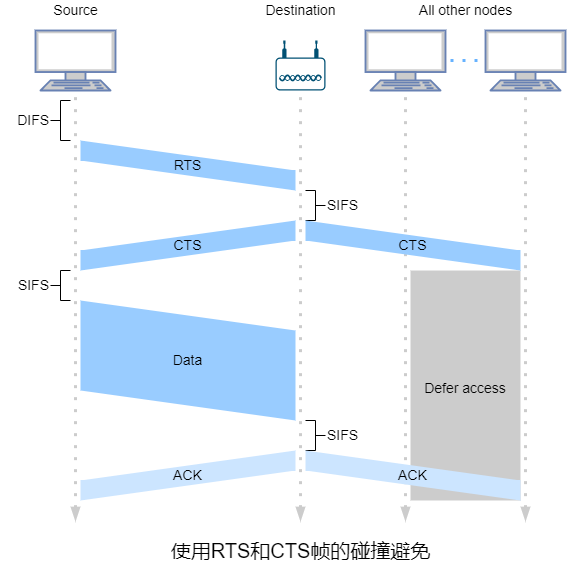
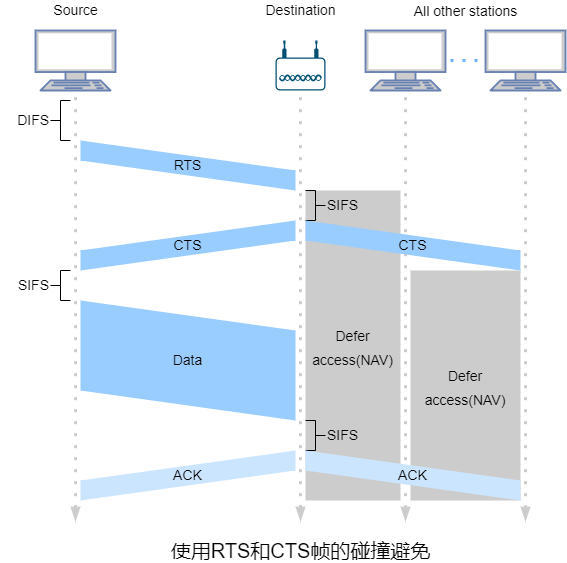
computer networking

Changed region(s): [[0.5397, 0.3321, 0.7196, 0.9059], [0.7496, 0.6643, 0.8995, 0.7247], [0.7196, 0.0, 0.9295, 0.0302]]

diff --git a/computer-networking/computer-networking.md b/computer-networking/computer-networking.md
@@ -1849,7 +1849,7 @@ $$
 
 		MPLS首部位于链路层帧首部和网络层数据报首部之间。MPLS首部包括20位**标签**、3位**实验**、1位**栈底标识**和8位**生存时间**。
 
-		﹡标签用来标识分组所属FEC。
+		﹡标签用于标识分组所属FEC。
 
 		﹡实验常用于**服务分类**。
 
@@ -1963,23 +1963,25 @@ $$
 
 ##### 6.7.2 802.11 MAC协议
 
-		由于多个无线主机或AP自身可能希望通过同一信道传输数据，因此需要[多路访问协议](#6.2 多路访问链路和协议)协调传输。
+		802.11 MAC协议包括**分布式协调功能**、**点协议功能**和**混合协调功能**，其中DCF是PAF和HCF的基础，PCF是可选项，HCF提供QOS的支持。
 
-		当WLAN中的站点(无线主机或AP)发送帧时，由于各种原因，帧可能无法完整地达到目的地。为了处理这种不可忽略的故障，802.211 MAC协议使用了**链路层确认**。当接收端收到通过CRC的帧时，它会等待**短帧间间隔**后响应一个确认帧。若发送端在给定时间内未收到确认，则认为发送了错误并重新发送帧，在给定次数的重传后依然未收到确认则丢弃该帧。
+		由于多个无线主机或AP自身可能希望通过同一信道传输数据，因此需要[多路访问协议](#6.2 多路访问链路和协议)协调传输。
 
 		802.11并未实现碰撞检测，因为碰撞检测需要同时传输和侦听，由于接收信号的强度通常远小于发送信号的强度，实现碰撞检测成本较高。即使网络适配器可以同时传输和侦听(并在检测到碰撞时时中止传输)，由于隐藏终端和信号衰减的问题，网络适配器依然无法检测到所有碰撞。
 
-		CSMA/CA中，当某个站点有帧待发送时，它先侦听信道，当信道空闲时，它会等待**分布式帧间间隔**，若在此期间未侦听到信号就发送帧，否则该站点像[CSMA/CD](#6.2.2.4 CSMA/CD)使用二进制指数退避算法来计算退避时间并启动**退避计时器**。若在退避时间内侦听到信号则暂停计时器，然后会重新等待到信道空闲并在下一个DIFS后再次启动计时器(计时器时间是剩下的时间)，计时器为0时发送帧。
+		802.11的载波侦听分为物理侦听和虚拟侦听，主要使用需要侦听。无线链路存在信号衰减、干扰以及多径传播，802.11使用**网络分配向量**来实现虚拟侦听，NAV是一个微秒计时器，用来指示预计使用信道的时间，当NAV不为0时则表示信道忙碌。
+
+		CSMA/CA使用了**分布式帧间间隔**和**短帧间间隔**，一般情况下，发送帧前需要等待DIFS，发送ACK帧前需要等待SIFS。当源站点有帧待发送时需要先侦听信道，当信道空闲后需要等待DIFS，若在此期间未侦听到信号就发送帧，否则源站点像[CSMA/CD](#6.2.2.4 CSMA/CD)使用二进制指数退避算法来计算退避时间并启动**退避计时器**。若在退避时间内侦听到信号则暂停计时器，然后会重新等待到信道空闲并在下一个DIFS后再次启动计时器(计时器时间是剩下的时间)，计时器为0时发送帧。由于各种原因，帧可能无法完整地达到目的地，因此使用了类似于[rdt2.0](#3.2.2 rdt2.0)中ACK的**链路层确认**。当目的站点收到通过CRC的帧时，它会等待SIFS后响应一个ACK帧。若源站点等待ACK帧超时则重传，在给定次数的重传后依然未收到ACK帧则丢弃帧。
 
 ![hidden_terminal](img/hidden_terminal.png)
 
 		无线主机H1和H2都在AP的范围内且都与AP关联，但由于信号衰减，两个无线主机对AP不隐藏，但是对彼此隐藏。若H1正在传输帧时，H2也要传输帧，这会导致碰撞，因此H1和H2的整个传输期间，信道都被浪费。
 
-		为了避免隐藏终端导致的问题，802.11协议允许无线主机使用短**请求发送**控制帧和短**允许发送**控制帧来预约信道的访问。当发送端有数据帧要发送时，可以先向AP发送一个RTS帧来指示传输数据帧和ACK帧所需的总时间。当AP收到RTS帧后通过广播CTS来响应，这样既给了发送端明确的发送权限，也指示了其他无线主机在预约时间内不要发送。
+		为了避免隐藏终端导致的问题，802.11协议允许无线主机使用短**请求发送**控制帧和短**允许发送**控制帧来预约信道的访问。当源站点有数据帧要发送时，可以先向AP发送一个RTS帧来指示传输数据帧和ACK帧所需的总时间，能够侦听到源站点信号的站点会进入NAV静默状态。当AP收到RTS帧后通过广播CTS帧来响应，这样既给了源站点明确的发送权限，也指示了其他站点在预约时间内不要发送，其他所有节点也进入NAV静默状态。若等待CTS帧超时则像发送普通数据帧一样使用二进制指数退避算法来计算退避时间并等待然后重传。
 
 ![collision_avoidance_using_rts_and_cts_frames](img/collision_avoidance_using_rts_and_cts_frames.png)
 
-		尽管RTS和CTS帧有助于减少碰撞，但也引入了延迟并消耗信道资源，因此，RTS和CTS帧仅用于长数据帧的传输通道预约。实际上可以为每个无线站点设置RTS阈值，当帧的长度超过阈值时才是RTS/CTS帧。很多无线站点的默认阈值大于最大帧长度，故所有发送的数据帧都会跳过RTS/CTS帧。
+		尽管RTS和CTS帧有助于减少碰撞，但也引入了延迟并消耗信道资源，因此，RTS和CTS帧仅用于长数据帧的传输通道预约。实际上可以为每个无线站点设置RTS阈值，当帧的长度超过阈值时才是RTS/CTS帧，默认阈值一般是2347字节。除了解决隐藏终端，RTS和CTS帧体现了==用短帧的碰撞来避免长帧的碰撞==。
 
 ##### 6.7.3 802.11帧
 
@@ -1991,27 +1993,29 @@ $$
 
 		帧控制包括帧的类型信息和一些控制位。
 
-| 帧控制字段       | 长度(位) | 描述                                                |
-| ---------------- | -------- | --------------------------------------------------- |
-| protocol version | 2        | 802.11协议版本，目前只有一个版本，该字段值为0       |
-| type             | 2        | 802.11帧类型                                        |
-| subtype          | 4        | 具体的802.11帧类型信息                              |
-| to AP            | 1        | 值为1时表示帧发送到AP                               |
-| from AP          | 1        | 值为1时表示帧来自于AP                               |
-| more flag        | 1        | [类似于IPv4数据报中的分片标志位](#4.2.1 IPv4数据报) |
-| retry            | 1        | 值为1时表示需要重传                                 |
-| power management | 1        | 值为1时发送完本帧后进入省电模式                     |
-| more data        | 1        | 仅用于管理帧，控制帧的该字段值为0                   |
-| protected frame  | 1        | 值为1时表示有效载荷已加密                           |
-| order            | 1        | 值为1时表示帧按序传输                               |
+| 帧控制字段       | 长度(位) | 描述                                                         |
+| ---------------- | -------- | ------------------------------------------------------------ |
+| protocol version | 2        | 802.11协议版本，目前只有一个版本，该字段值为0                |
+| type             | 2        | 值为00时表示管理帧，值为01时表示控制帧，值为10时表示数据帧，值为11保留 |
+| subtype          | 4        | 具体的802.11帧类型信息                                       |
+| to DS            | 1        | 值为1时表示帧发送到无线工作站(例如AP)                        |
+| from DS          | 1        | 值为1时表示帧由无线工作站(例如AP)发送                        |
+| more flag        | 1        | 类似于[IPv4数据报](#4.2.1 IPv4数据报)中的分片标志位          |
+| retry            | 1        | 值为1时表示重传帧                                            |
+| power management | 1        | 值为1时发送完本帧后进入省电模式                              |
+| more data        | 1        | 仅用于管理帧，控制帧的该字段值为0                            |
+| protected frame  | 1        | 值为1时表示有效载荷已加密                                    |
+| order            | 1        | 值为1时表示帧按序传输                                        |
 
-		持续器用于记载网络分配向量的值。当最后一位为0时用于设置NAV。站点必须监视该字段并更新。
+		持续器用于记载NAV的值。当最后一位为0时用于设置NAV，例如RTS和CTS帧中会设置这个值来指示其他站点在指定时间内不要发送帧。
 
 		地址1表示接收端(接收端不一定是目的地)的MAC地址。
 
 		地址2表示发送端(发送端不一定是源)的MAC地址。
 
 		地址3用于基站和传输系统的过滤，具体用法取决于网络类型。例如一台路由器需要向某个BSS中的某台无线主机发送帧，但是路由器并不知道它通过AP到达无线主机间，路由器发送目的MAC地址为无线主机的==以太帧==到AP。AP收到以太网帧后将其==转换为802.11帧==，该802.11帧的地址1是无线主机的MAC地址，地址2是自身地址，地址3是路由器发送数据报接口的MAC地址。
+
+		序号控制类似于[rdt2.0](#3.2.2 rdt2.0)中的序号。
 
 		地址4仅在无线分布式系统中使用。
 
@@ -2221,6 +2225,8 @@ $$
 >
 > **distributed application** 分布式应用程序
 >
+> **distributed coordination function(DCF)** 分布式协调功能
+>
 > **distributed inter-frame space(DIFS)** 分布式帧间间隔
 >
 > **distribution time** 分发时间
@@ -2345,6 +2351,8 @@ $$
 >
 > **hub** 集线器
 >
+> **hybrid coordination function(HCF)** 混合协调功能
+>
 > **hybrid fiber coax(HFC)** 混合光纤同轴
 >
 > **hyper text transfer protocol(HTTP)** 超文本传输协议
@@ -2360,6 +2368,8 @@ $$
 > **instantaneous throughput** 瞬时吞吐量
 >
 > **inter-autonomous system routing protocol** 自治系统间路由选择协议
+>
+> **inter-frame spacing(IFS)** 帧间间隔
 >
 > **intermediate system to intermediate system(IS-IS)** 中间系统到中间系统
 >
@@ -2573,6 +2583,8 @@ $$
 >
 > **pipelining** 流水线
 >
+> **point coordination function(PCF)** 点协调功能
+>
 > **point of presence(POP)** 存在点
 >
 > **point to point** 点对点
@@ -2605,6 +2617,8 @@ $$
 >
 > **push protocol** 推协议
 >
+> **quality of service(QOS)** 服务质量
+>
 > **queuing delay** 排队时延
 >
 > **quick UDP internet connection(QUIC)** 快速UDP互联网连接
@@ -2627,7 +2641,7 @@ $$
 >
 > **request line** 请求行
 >
-> **request to send(CTS)** 允许发送
+> **request to send(RTS)** 允许发送
 >
 > **resource record(RR)** 资源记录
 >
